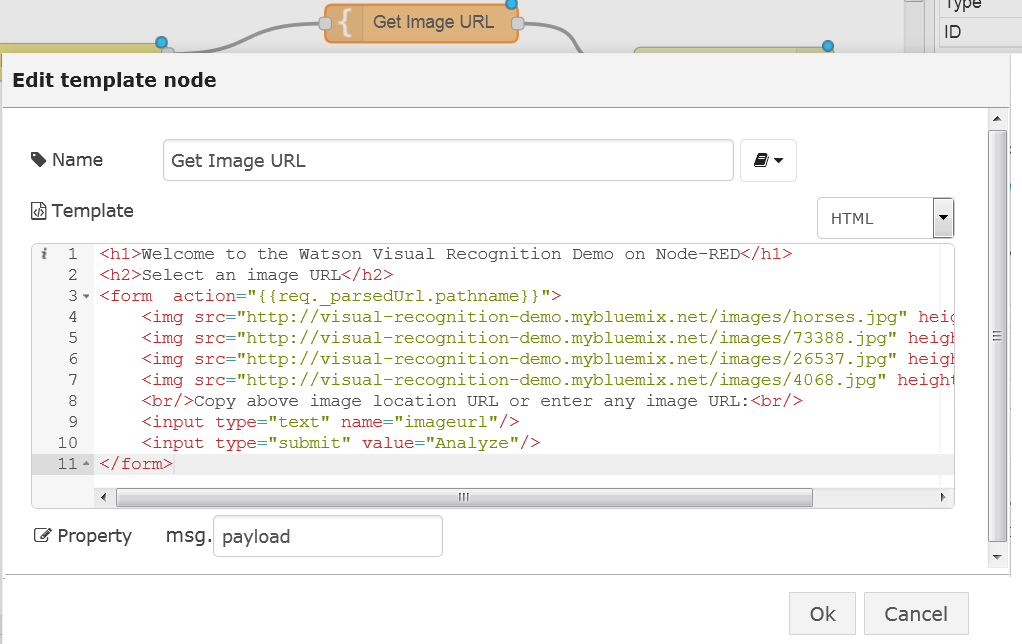
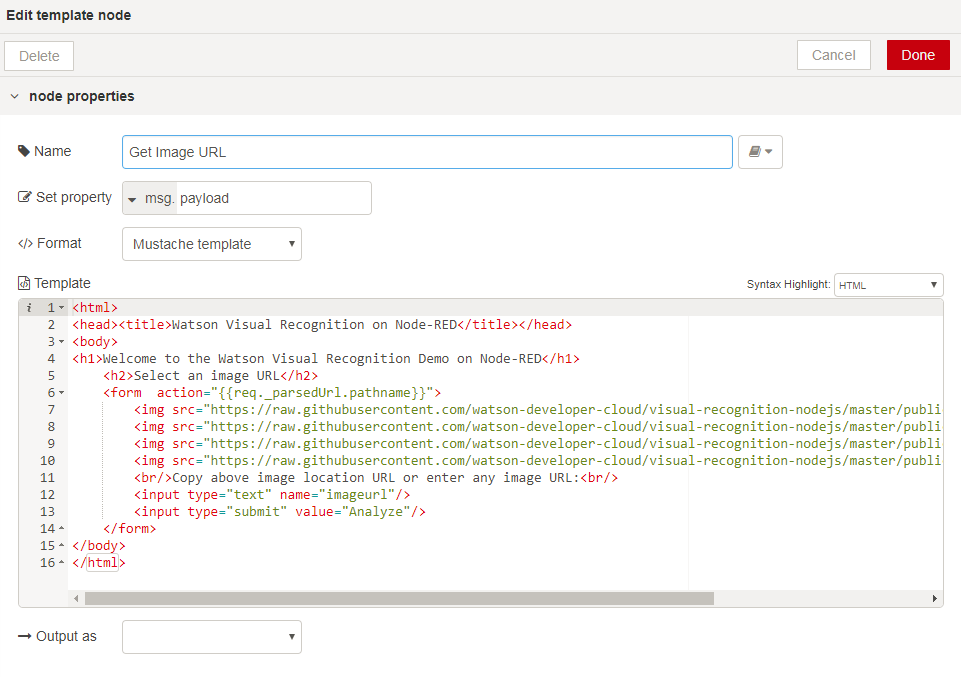
Visual Recognition Updated

diff --git a/basic_examples/visual_recognition/README.md b/basic_examples/visual_recognition/README.md
@@ -1,22 +1,22 @@
 #  Lab: Watson Visual Recognition with Node-RED
 ## Overview
-The Watson  Visual Recognition service allows to analyse the contents of an image and produce a series of text classifiers with a confidence index.
+The Watson  Visual Recognition service allows to analyze the contents of an image and produce a series of text classifiers with a confidence index.
 
 ## Node-RED Watson Visual Recognition node
 The Node-RED ![`VisualRecognition`](images/node_red_watson_visual_recognition.png) node provides a very easy wrapper node that takes an image URL or binary stream as input, and produces a set of image labels as output.
 
 ## Watson Visual Recognition Flow construction
-In this exercise, we will show how to simply generate the labels from an image URL.
+In this exercise, we will show you how to simply generate the labels from an image URL.
 
 ### Prerequisites and setup
-To get the service credentials automatically filled-in by Node-RED from the BlueMix credentials, the Visual Recognition Service should be bound to the Node-RED application in BlueMix.
+To get the Visual Recognition service credentials on IBM Cloud automatically filled-in by Node-RED, you should connect the Visual Recognition service to the Node-RED application in IBM Cloud.
 
 ![](images/reco_lab_visual_recognition_service.png)
 
 Please refer to the [Node-RED setup lab](/introduction_to_node_red/README.md) for instructions.
 
 ### Building the flow
-The flow will present a simple Web page with a text field where to input the image's URL, then submit it to Watson Visual Recognition, and output the labels that have been found on the reply Web page.
+The flow will present a simple web page with a text field of where to input the image's URL, then submit it to Watson Visual Recognition. It will output the labels that have been found on the reply Web page.
 ![Reco-Lab-VisualRecognitionFlow.png](images/reco_lab_visual_recognition_flow.png)
 The nodes required to build this flow are:
 
@@ -25,24 +25,29 @@ The nodes required to build this flow are:
    ![Reco-Lab-Switch-Node-Props](images/reco_lab_switch_node_props.png)
  - A first ![template](/introduction_to_node_red/images/node_red_template.png) node, configured to output an HTML input field and suggest a few selected images taken from the main Watson Visual Recognition demo web page:
 ```HTML
-    <h1>Welcome to the Watson Visual Recognition Demo on Node-RED</h1>
+<html>
+<head><title>Watson Visual Recognition on Node-RED</title></head>
+<body>
+<h1>Welcome to the Watson Visual Recognition Demo on Node-RED</h1>
     <h2>Select an image URL</h2>
     <form  action="{{req._parsedUrl.pathname}}">
-        <img src="http://visual-recognition-demo.mybluemix.net/images/horses.jpg" height='100'/>
-        <img src="http://visual-recognition-demo.mybluemix.net/images/73388.jpg" height='100'/>
-        <img src="http://visual-recognition-demo.mybluemix.net/images/26537.jpg" height='100'/>
-        <img src="http://visual-recognition-demo.mybluemix.net/images/4068.jpg" height='100'/>
+        <img src="https://raw.githubusercontent.com/watson-developer-cloud/visual-recognition-nodejs/master/public/images/samples/1.jpg" height='100'/>
+        <img src="https://raw.githubusercontent.com/watson-developer-cloud/visual-recognition-nodejs/master/public/images/samples/2.jpg" height='100'/>
+        <img src="https://raw.githubusercontent.com/watson-developer-cloud/visual-recognition-nodejs/master/public/images/samples/3.jpg" height='100'/>
+        <img src="https://raw.githubusercontent.com/watson-developer-cloud/visual-recognition-nodejs/master/public/images/samples/4.jpg" height='100'/>
         <br/>Copy above image location URL or enter any image URL:<br/>
         <input type="text" name="imageurl"/>
         <input type="submit" value="Analyze"/>
     </form>
+</body>
+</html>
 ```
 ![Reco-Lab-Template1-Node-Props](images/reco_lab_template1_node_props.png)
- 
+
 - A ![change](/introduction_to_node_red/images/node_red_change.png) node (named `Extract img URL` here) to extract the `imageurl` query parameter from the web request and assign it to the payload to be provided as input to the Visual Recognition node:
 ![Reco-Lab-Change_and_Reco-Node-Props](images/reco_lab_change_and_reco_node_props.png)
 
- - The ![Watson Visual Recognition](images/node_red_watson_visual_recognition.png) node. Make sure that the credentials are setup from bluemix, i.e. that the service is bound to the application. This can be verified by checking that the properties for the Visual Recognition node are clear:
+ - The ![Watson Visual Recognition](images/node_red_watson_visual_recognition.png) node. Make sure that the credentials are setup from IBM Cloud, i.e. that the service is bound to the application. This can be verified by checking that the properties for the Visual Recognition node are clear:
  ![Visual Recognition node properties](images/reco_lab_visual_recognition_service_credentials.png)
 
  - And a final  ![`template`](/introduction_to_node_red/images/node_red_template.png) node linked to the ![`HTTPResponse`](/introduction_to_node_red/images/node_red_httpresponse.png) output node. The template will format the output returned from the Visual Recognition node into an HTML table for easier reading:
@@ -67,6 +72,7 @@ To run the web page, point your browser to  `/http://xxxx.mybluemix.net/reco` an
 The URL of the pre-selected images can be copied to clipboard and pasted into the text field.
 
 The Watson Visual Recognition API will return an array with the recognized features, which will be formatted in a HTML table by the template:
+
 ![Visual RecognitionScreenshot ](images/reco_lab_visual_recognition_screenshot.png)
 
 ### Flow source
